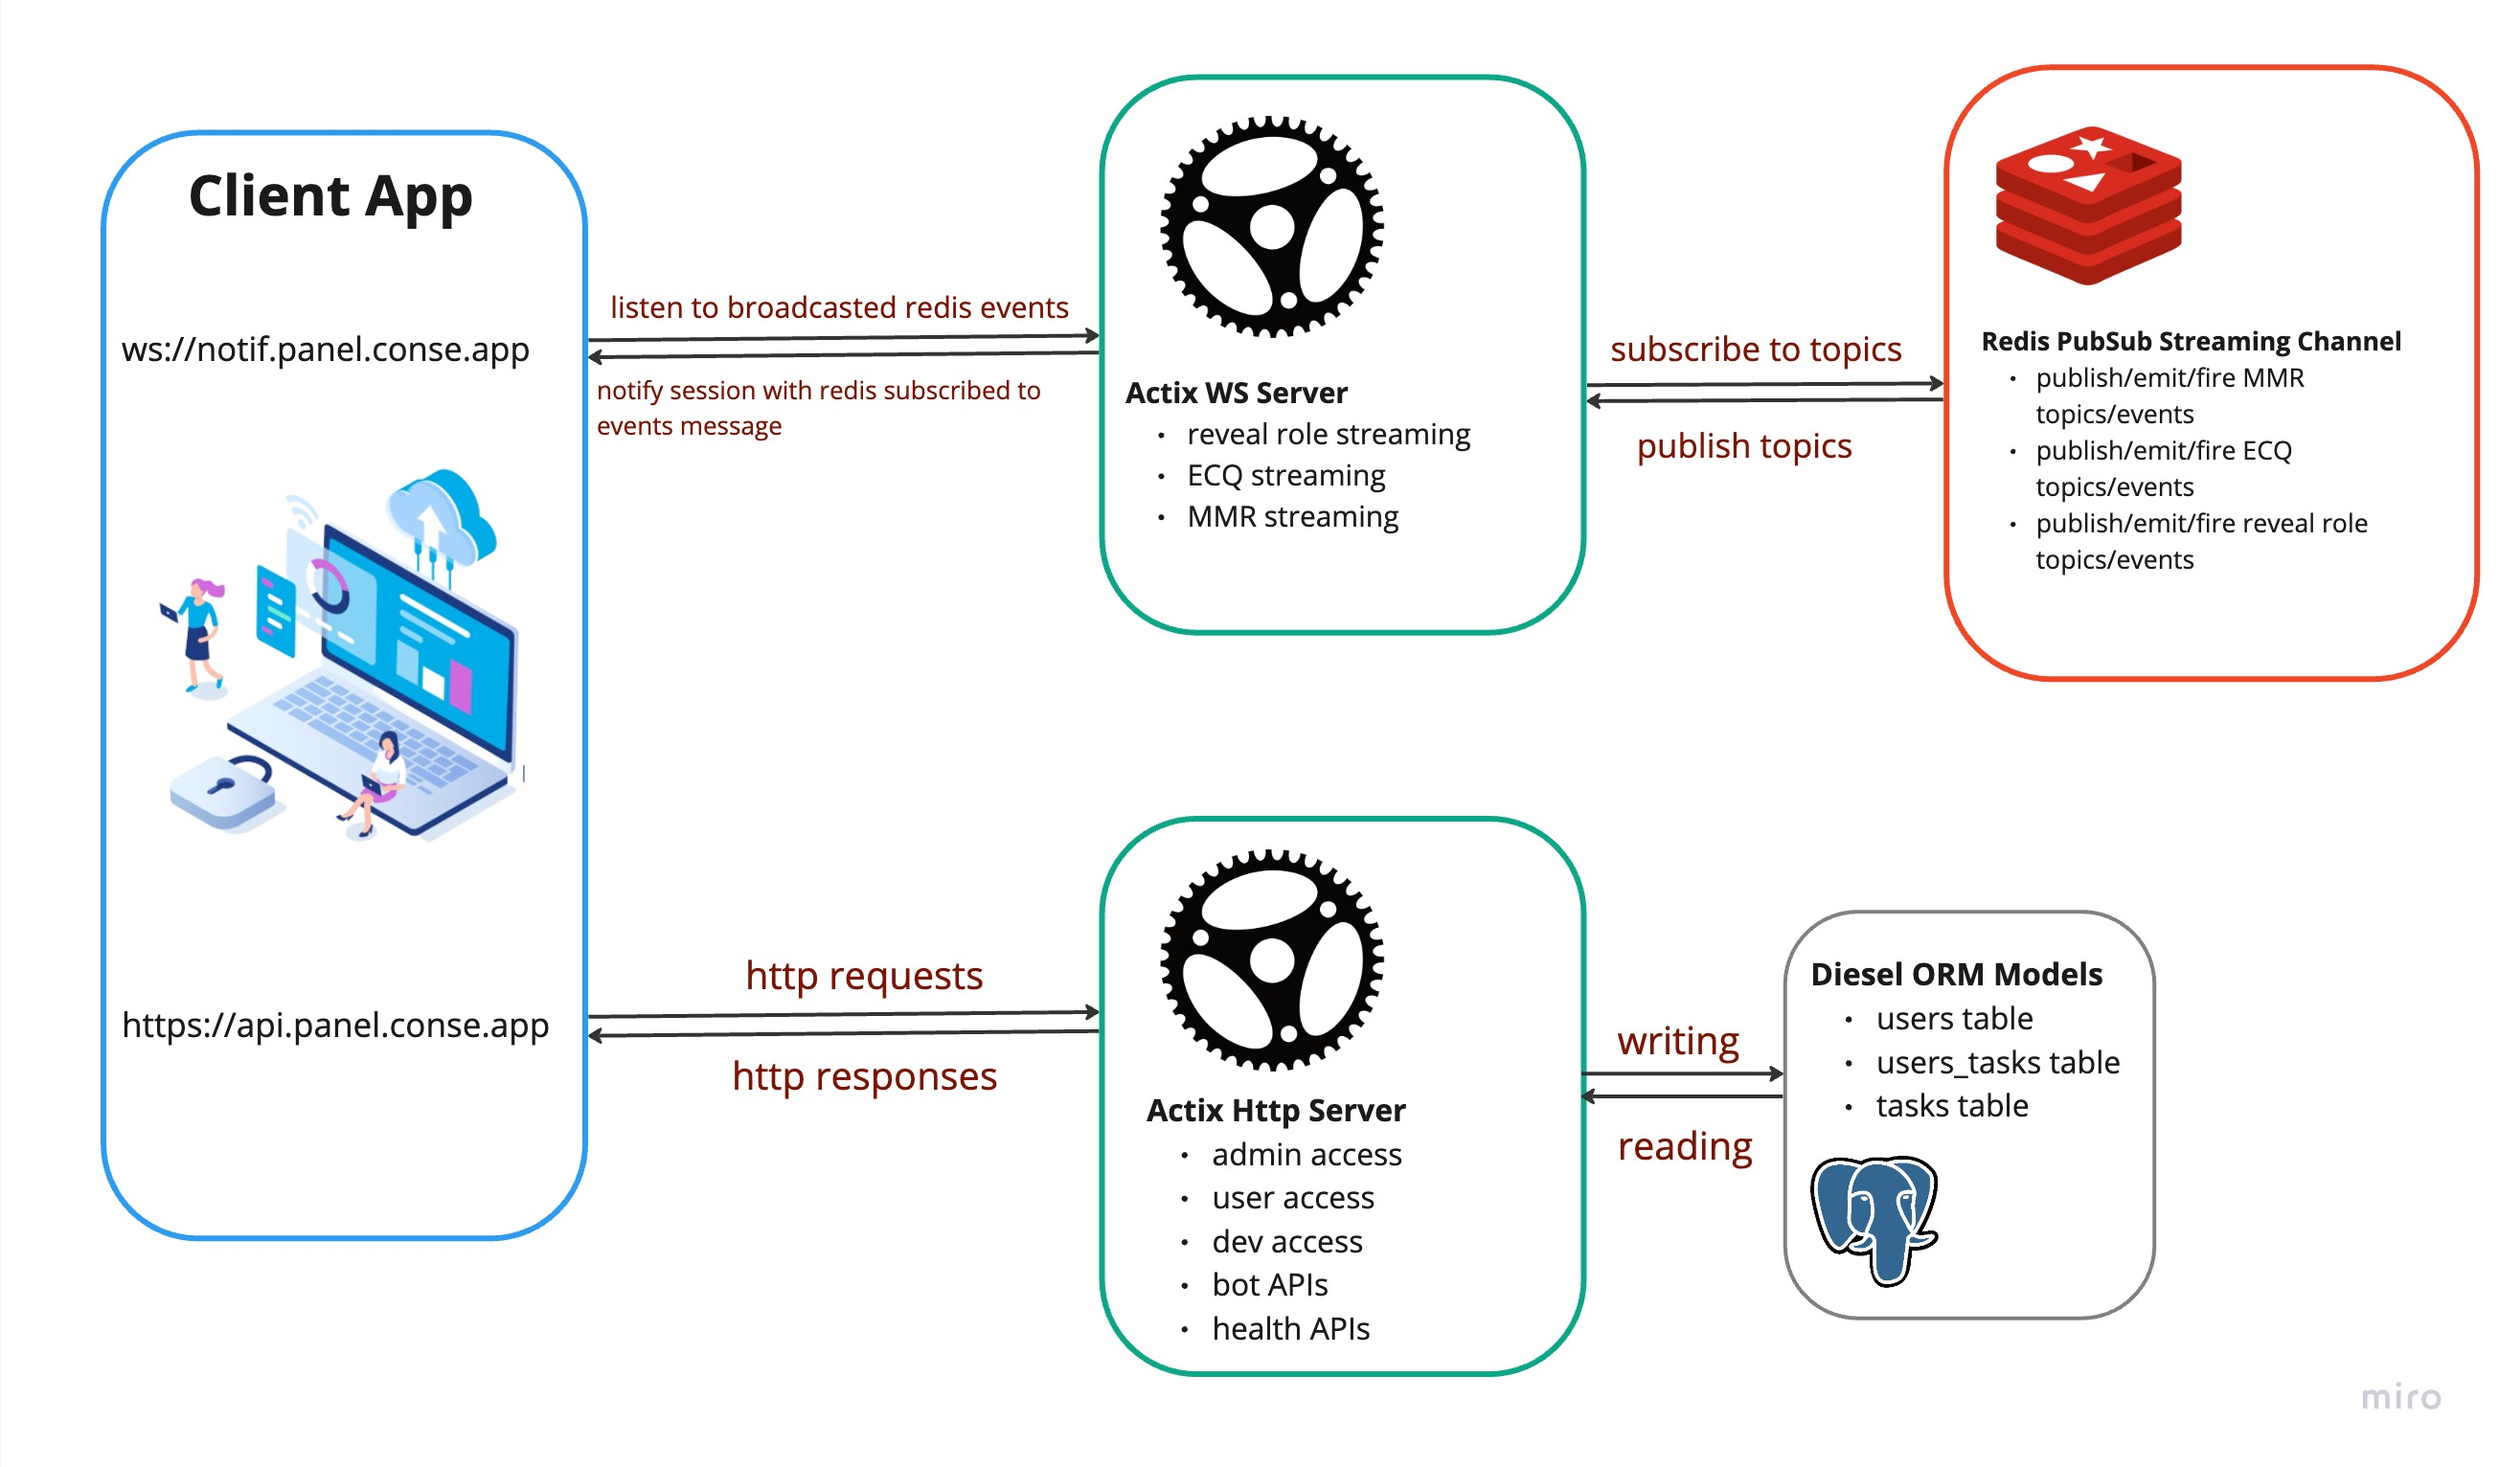
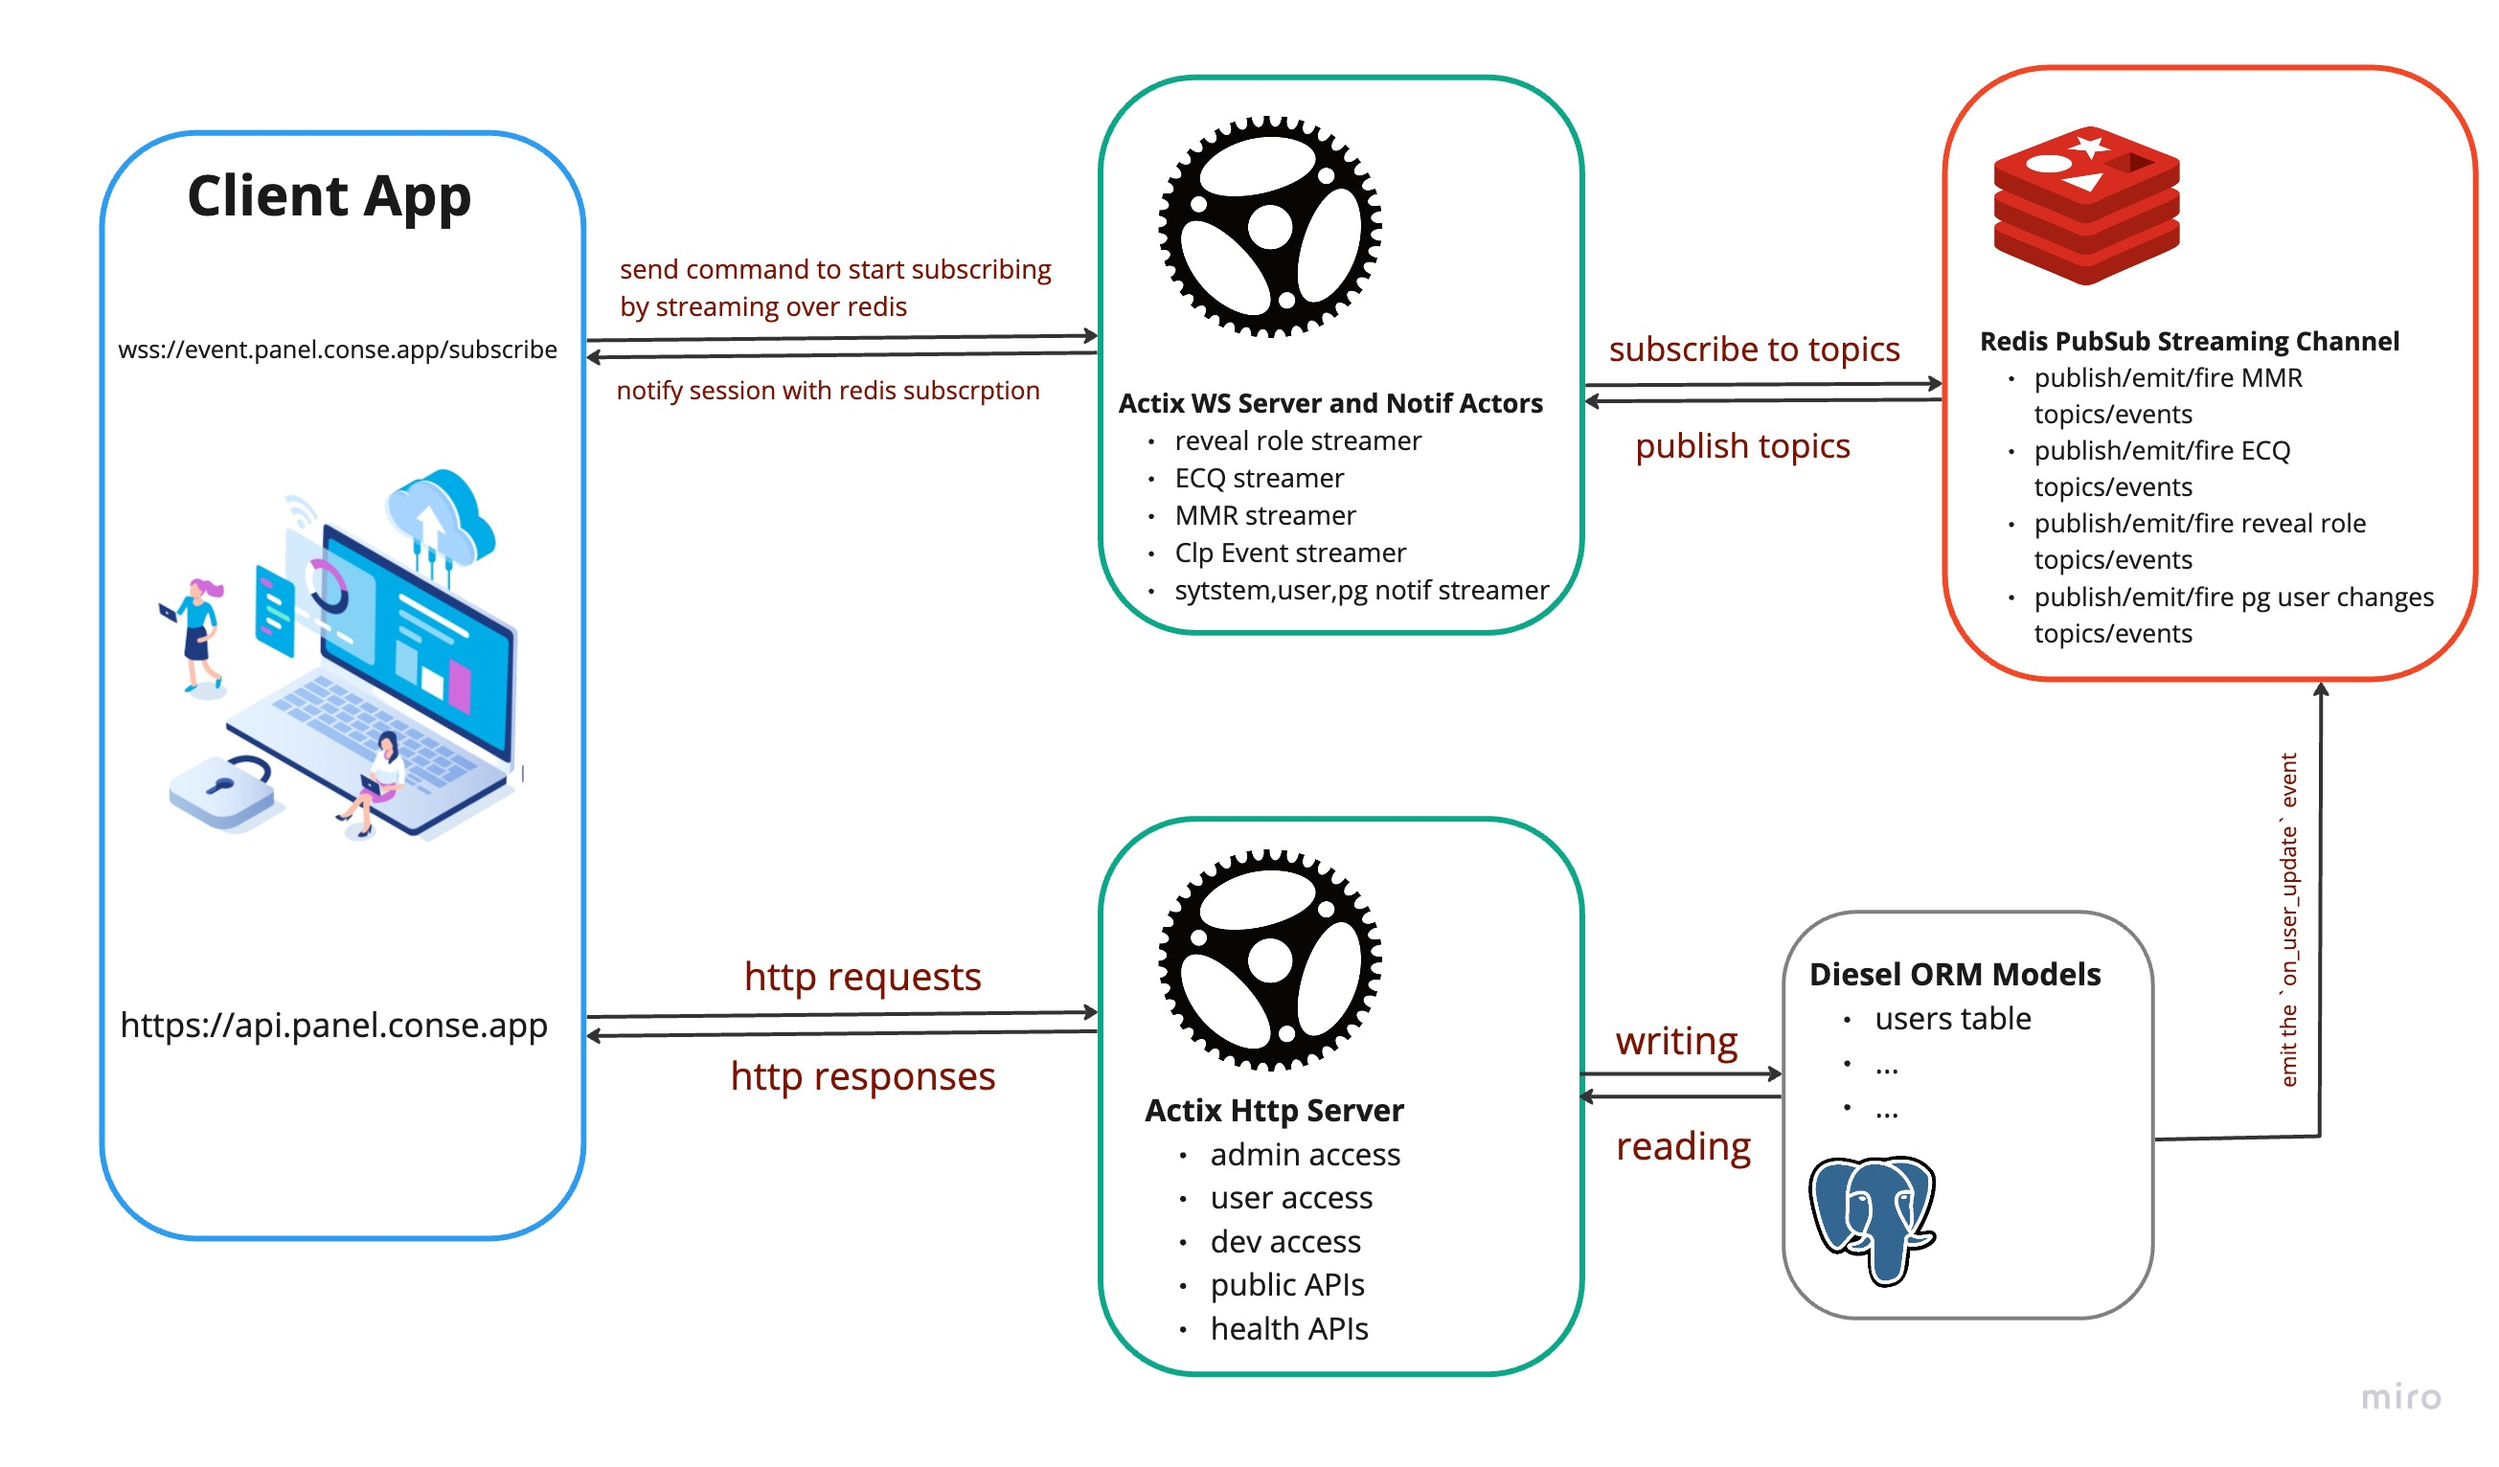
updating arch

diff --git a/README.md b/README.md
@@ -241,7 +241,7 @@ sudo chmod +x /root && sudo chmod +x /root/gem && sudo chmod +x /root/gem/infra 
 
 ```rust
 
-//----> route: /a/sexy/route/0x31A72ae35138A34BB1c3522d2aC8FFaC1a37EA8D/12/?from=0&to=10
+//----> route: /a/sexy/route/wildonion/0x31A72ae35138A34BB1c3522d2aC8FFaC1a37EA8D/12/?from=0&to=10
 
 #[derive(Clone, Debug, Serialize, Deserialize, ToSchema)]
 pub struct Limit{
@@ -249,13 +249,16 @@ pub struct Limit{
     pub to: Option<i64>
 }
 
-#[post("/a/sexy/route/{sexy-param}/{another-sexy-param-id}/")]
+async fn api()
+#[post("/a/sexy/route/{sexy-param}/{another-sexy-param-id}/?from=0&to=10")]
 async fn api(
-        req: HttpRequest, app_storage: 
-        storage: web::Data<Option<Arc<Storage>>>,
+        req: HttpRequest,  
+        app_storage: web::Data<Option<Arc<Storage>>>,
         req_body: web::Json<ReqBody>,
-        limit: web::Path<Limit>
+        limit: web::Path<Limit>,
         a_sexy_param: web::Path<(String, i32)>
+        stream: web::Payload,
+        payload: Multipart,
     ) -> PanelHttpResponse{
 
 
